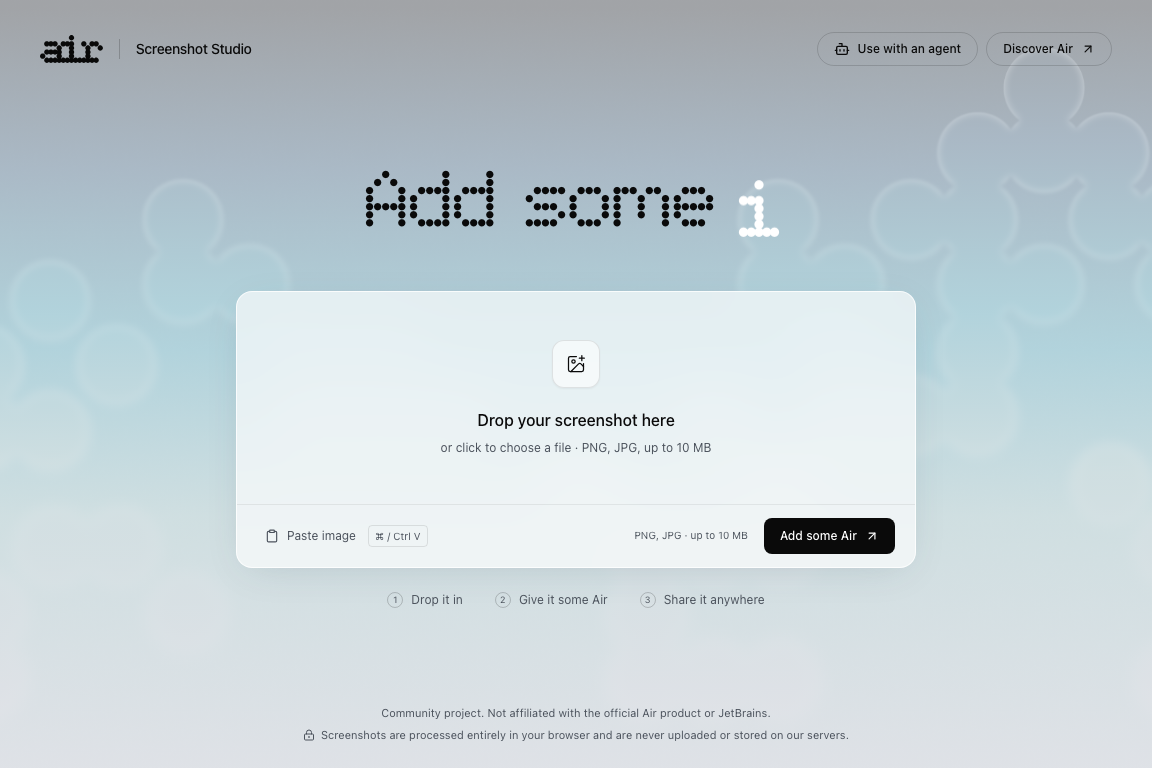
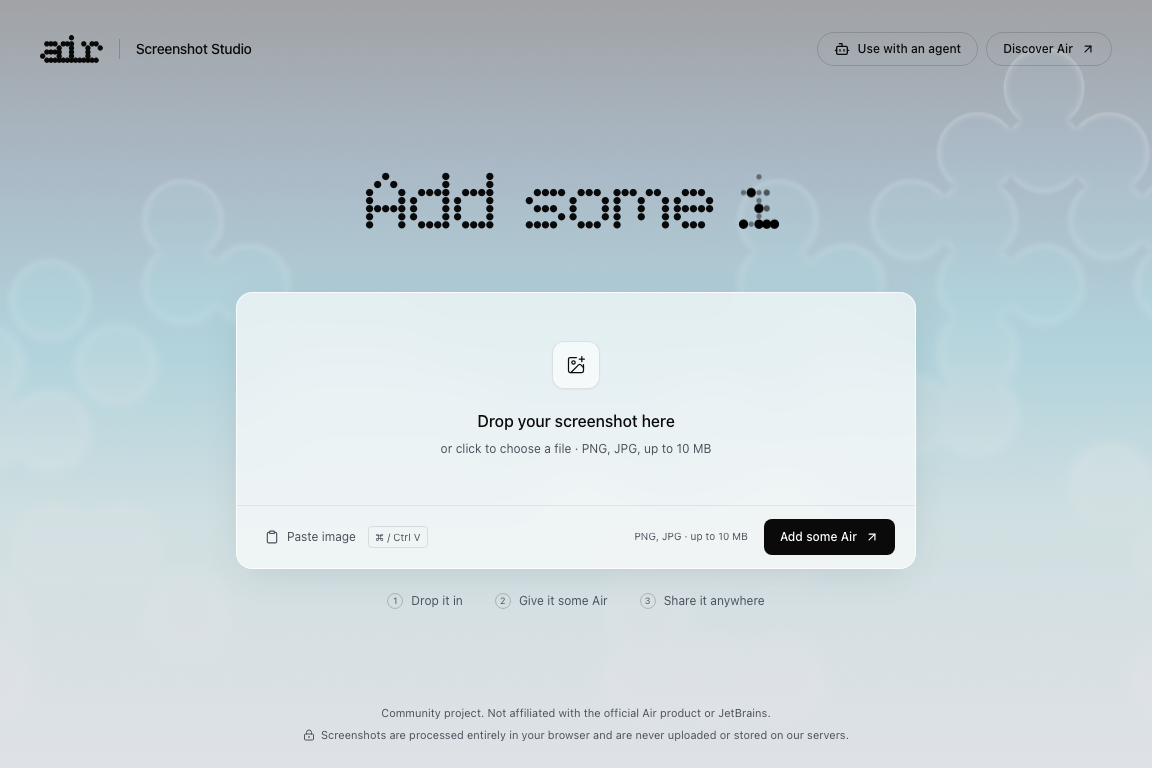
fix: correct wasm loading and alignment for animated Air hero mark
Explicitly point dotlottie-react at its wasm asset and fix inline
spacing/alignment of the animated mark next to "Add some" text.

diff --git a/src/pages/Index.tsx b/src/pages/Index.tsx
@@ -1,5 +1,6 @@
 import { useEffect, useState } from 'react';
-import { DotLottieReact } from '@lottiefiles/dotlottie-react';
+import { DotLottieReact, setWasmUrl } from '@lottiefiles/dotlottie-react';
+import dotLottieWasmUrl from '@lottiefiles/dotlottie-web/dotlottie-player.wasm?url';
 import { toast } from 'sonner';
 import { ArrowUpRight, Check, LockKeyhole, RotateCcw } from 'lucide-react';
 
@@ -13,6 +14,8 @@ import { generateSVG, preloadBackgroundImage } from '@/lib/svgRenderer';
 import { loadBackgroundVariant, saveBackgroundVariant } from '@/lib/storage';
 import { copyOrDownloadBlob, downloadBlob } from '@/utils/exportUtils';
 import { svgToBlob } from '@/utils/browserRenderer';
+
+setWasmUrl(dotLottieWasmUrl);
 
 type BackgroundStatus = 'loading' | 'ready' | 'failed';
 interface BackgroundState {
@@ -141,14 +144,14 @@ const Index = () => {
               {imageData ? (
                 'Ready to share'
               ) : (
-                <span className="inline-flex items-center gap-[0.18em]">
+                <span className="whitespace-nowrap">
                   <span>Add some</span>
                   <DotLottieReact
                     src={`${import.meta.env.BASE_URL}animation-air-logo.lottie`}
                     autoplay
                     loop
                     aria-label="Air"
-                    className="h-[0.78em] w-[0.78em]"
+                    className="ml-[0.18em] inline-block h-[0.78em] w-[0.78em] align-[-0.025em] brightness-0"
                   />
                 </span>
               )}

diff --git a/src/pages/Index.test.tsx b/src/pages/Index.test.tsx
@@ -5,6 +5,12 @@ import { preloadBackgroundImage } from '@/lib/svgRenderer';
 import { downloadBlob } from '@/utils/exportUtils';
 import Index from './Index';
 
+// Exercise page behavior without loading the canvas/WASM player in jsdom.
+vi.mock('@lottiefiles/dotlottie-react', () => ({
+  DotLottieReact: () => <span aria-label="Air" />,
+  setWasmUrl: vi.fn(),
+}));
+
 vi.mock('@/lib/svgRenderer', async (importOriginal) => ({
   ...await importOriginal<typeof import('@/lib/svgRenderer')>(),
   preloadBackgroundImage: vi.fn(),
